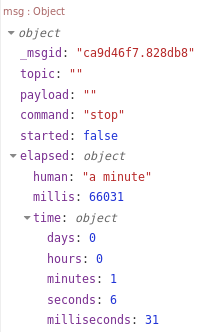
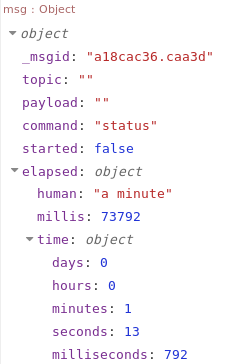
Intermediate commit

diff --git a/README.md b/README.md
@@ -47,19 +47,15 @@ Every input `msg` should have a **command** property, otherwise an error is issu
 - **resume** - resumes time measuring. Synonym of **start**  
 - **toggle** - switches over between running and stopped time measuring  
 - **reset** - resets measured value to 00:00. In the case of a running time measuring the value  continues to count from 00:00  
-- **status** - reports the actual status of the measured value. Output properties see section [Output](#output)  
+- **status** - reports the actual status of the measured value. Output properties see section [Output](#output). This command is typically used for split times or to read out the time values after a stopped measuring.  
 
-Remark: Alarm commands are described in the [alarm section](#input_alarm_handling). 
+Remark: Alarm commands are described in the [alarm section](#input_alarm_handling).  
 
 An example for an input `msg` object is as follows:
 
 <img src="assets/input-msg_start.png" title="Input message object" width="200" />
 
 **Fig. 3:** Input `msg` object (example *start* command)
-
-
-xxx hier noch irgendwie beschreiben, dass
-I've committed the change to send the status message for start/stop/reset commands if msg.status=true
 
 
 <a name="output_time_measuring"></a>
@@ -69,7 +65,8 @@ The `node-red-contrib-hourglass` node contains the following output properties w
 * `started` - gives the status of the time measuring, specifies whether measuring is actually active
 * `elapsed` - gives time values as an own sub-object (details see below)
 
-The output `msg` is sent in the case of every input msg with a valid command.
+In the basic mode the node only emits a `msg` at a *status* command. 
+An extended mode exists, where the output `msg` is send at every command (see [Extended status message mode](#extended_status)).  
 
 <img src="assets/output-msg_object.png" title="Output message object" width="200" />
 
@@ -81,11 +78,31 @@ The output property `elapsed` contains a sub-object with the following propertie
 * `elapsed.millis` - time in milliseconds, specifies the time elapsed since measuring was started.  
 * `elapsed.time` - has sub-properties of days/hours/minutes/seconds/milliseconds for elapsed time.  
 
-In the output example shown in the previous Fig. 4, these `msg` object properties contain a *stopped* state ("started: false"), a last command as a *stop* command and the *elapsed time* of about 66 seconds.
+In the output example shown in the previous Fig. 4, these `msg` object properties contain a *stopped* state ("started: false"), a last command as a *status* command and the *elapsed time* of about 74 seconds.
+
+
+<a name="extended_status"></a>
+#### Extended status message mode ####
+In some cases (e.g. measuring pulse widths) it is more convenient to get the elapsed time value directly with the *stop* command, without an extra *status* command. Therefore the *extended status message mode* exists.  
+Using this mode, the output `msg` is emitted in the case of every valid command, i.e. not only at the *status* command.
+
+This mode is selected by using the command property `msg.status` set to true in a command `msg`. If the command `msg` contains no status property, the basic mode is active (for compatibility, acts as before).
+
+<img src="assets/input-msg_stop_extended_mode.png" title="Input message object in extended status message mode" width="200" />
+
+**Fig. 5:** Input `msg` object in extended status message mode (example *stop* command)
+
+An inject node for manually tesing this mode could look like this:
+<img src="assets/input-inject_stop_extended_mode.png" title="Input inject object for extended status message mode" width="320" />
+
+**Fig. 6:** Input inject node configuration for extended status message mode  
 
 
 <a name="alarm_handling"></a>
 ### Alarm handling ###
+
+xxx not finished
+
 The alarm functionality covers the ability to set/remove several alarms. Generally there are no limitations of the number of active alarms within the node.
 
 <a name="input_alarm_handling"></a>
@@ -125,7 +142,7 @@ The nodes status shows
 * an alarm with a blue dot and a message *"Alarm ... message "*
 <img src="assets/node-status.png" title="Node status" width="300" />
 
-**Fig. 5:** `Hourglass` node status
+**Fig. 7:** `Hourglass` node status
 
 
 
@@ -148,29 +165,17 @@ The errors may be catched with the `catch` node.
 ## Examples ##
 
 <a name="basic_time_measuring_example"></a>
-### Basic time measuring example (start, stop, reset) ###
-This example shows how to use the basic commands *start*, *stop*, *reset*. Injecting the appropriate command to the `hourglass` node shows the status at the node, the last injected command and the elapsed time. 
-Remark: A value unequal to '0' in the elapsed time when injecting *reset* at a running node is only a matter of performance of the Node-RED machine.  
+### Basic time measuring example (start, stop, reset, status) ###
+This example shows how to use the basic commands *start*, *stop*, *reset* and *status*.  
 <img src="assets/example-basic.png" title="Basic example" width="650" />
 
-**Fig. 6:** `Hourglass` basic example 
+**Fig. 8:** `Hourglass` basic example 
 
 
 ```json
-[{"id":"38d3bc18.5fab9c","type":"hourglass","z":"25e44718.693758","name":"","humanizeLocale":"","x":770,"y":140,"wires":[["b76eef4.f8f021"]]},{"id":"7bcac329.9101dc","type":"change","z":"25e44718.693758","name":"{command:'reset'}","rules":[{"t":"set","p":"command","pt":"msg","to":"reset","tot":"str"}],"action":"","property":"","from":"","to":"","reg":false,"x":480,"y":240,"wires":[["ac103e97.ca2d08","38d3bc18.5fab9c"]]},{"id":"3d77841f.654b0c","type":"change","z":"25e44718.693758","name":"{command:'start'}","rules":[{"t":"set","p":"command","pt":"msg","to":"start","tot":"str"}],"action":"","property":"","from":"","to":"","reg":false,"x":480,"y":140,"wires":[["ac103e97.ca2d08","38d3bc18.5fab9c"]]},{"id":"fb5df939.afa9f8","type":"change","z":"25e44718.693758","name":"{command:'stop'}","rules":[{"t":"set","p":"command","pt":"msg","to":"stop","tot":"str"}],"action":"","property":"","from":"","to":"","reg":false,"x":480,"y":180,"wires":[["ac103e97.ca2d08","38d3bc18.5fab9c"]]},{"id":"b76eef4.f8f021","type":"debug","z":"25e44718.693758","name":"","active":false,"tosidebar":true,"console":false,"tostatus":true,"complete":"elapsed.millis","targetType":"msg","x":1000,"y":140,"wires":[]},{"id":"ac103e97.ca2d08","type":"debug","z":"25e44718.693758","name":"last command","active":false,"tosidebar":false,"console":false,"tostatus":true,"complete":"command","targetType":"msg","x":780,"y":200,"wires":[]},{"id":"17ca3917.a04e2f","type":"inject","z":"25e44718.693758","name":"","topic":"","payload":"","payloadType":"str","repeat":"","crontab":"","once":false,"onceDelay":0.1,"x":270,"y":180,"wires":[["fb5df939.afa9f8"]]},{"id":"20bc7f33.c543a8","type":"inject","z":"25e44718.693758","name":"","topic":"","payload":"","payloadType":"str","repeat":"","crontab":"","once":false,"onceDelay":0.1,"x":270,"y":240,"wires":[["7bcac329.9101dc"]]},{"id":"7b3afdf3.637da4","type":"inject","z":"25e44718.693758","name":"","topic":"","payload":"","payloadType":"str","repeat":"","crontab":"","once":false,"onceDelay":0.1,"x":270,"y":140,"wires":[["3d77841f.654b0c"]]}]
+[{"id":"92109e0a.88d96","type":"hourglass","z":"26a14c0c.360194","name":"","humanizeLocale":"","x":751,"y":80,"wires":[["f8480416.0850d"]]},{"id":"5a0a72af.5c5fc4","type":"change","z":"26a14c0c.360194","name":"{command:'reset'}","rules":[{"t":"set","p":"command","pt":"msg","to":"reset","tot":"str"}],"action":"","property":"","from":"","to":"","reg":false,"x":464,"y":180,"wires":[["5f57def2.775bb","92109e0a.88d96"]]},{"id":"cfff0e2d.ada0e8","type":"change","z":"26a14c0c.360194","name":"{command:'start'}","rules":[{"t":"set","p":"command","pt":"msg","to":"start","tot":"str"}],"action":"","property":"","from":"","to":"","reg":false,"x":462,"y":80,"wires":[["5f57def2.775bb","92109e0a.88d96"]]},{"id":"a0a2d80e.88f7d","type":"change","z":"26a14c0c.360194","name":"{command:'stop'}","rules":[{"t":"set","p":"command","pt":"msg","to":"stop","tot":"str"}],"action":"","property":"","from":"","to":"","reg":false,"x":462,"y":120,"wires":[["5f57def2.775bb","92109e0a.88d96"]]},{"id":"f8480416.0850d","type":"debug","z":"26a14c0c.360194","name":"","active":true,"tosidebar":true,"console":false,"tostatus":true,"complete":"elapsed.millis","targetType":"msg","x":981,"y":80,"wires":[]},{"id":"5f57def2.775bb","type":"debug","z":"26a14c0c.360194","name":"last command","active":false,"tosidebar":false,"console":false,"tostatus":true,"complete":"command","targetType":"msg","x":761,"y":140,"wires":[]},{"id":"5d200463.e6e644","type":"inject","z":"26a14c0c.360194","name":"","topic":"","payload":"","payloadType":"str","repeat":"","crontab":"","once":false,"onceDelay":0.1,"x":250,"y":120,"wires":[["a0a2d80e.88f7d"]]},{"id":"894f06df.59219","type":"inject","z":"26a14c0c.360194","name":"","topic":"","payload":"","payloadType":"str","repeat":"","crontab":"","once":false,"onceDelay":0.1,"x":250,"y":180,"wires":[["5a0a72af.5c5fc4"]]},{"id":"f8935576.4a4ae","type":"inject","z":"26a14c0c.360194","name":"","topic":"","payload":"","payloadType":"str","repeat":"","crontab":"","once":false,"onceDelay":0.1,"x":250,"y":80,"wires":[["cfff0e2d.ada0e8"]]},{"id":"6384eb1d.90bca4","type":"inject","z":"26a14c0c.360194","name":"","topic":"","payload":"","payloadType":"str","repeat":"","crontab":"","once":false,"onceDelay":0.1,"x":250,"y":220,"wires":[["5bb3a7b5.cb8b9"]]},{"id":"5bb3a7b5.cb8b9","type":"change","z":"26a14c0c.360194","name":"{command:'status'}","rules":[{"t":"set","p":"command","pt":"msg","to":"status","tot":"str"}],"action":"","property":"","from":"","to":"","reg":false,"x":462,"y":220,"wires":[["92109e0a.88d96","5f57def2.775bb"]]}]
 ```  
-**Fig. 7:** `Hourglass` node example flow
-
-<a name="pause_and_resume_example"></a>
-### Using pause and resume option ###
-
-xxx
-
-
-<a name="split_time_with_status_command_example"></a>
-### Getting split time values using the status command ###
-
-xxx
+**Fig. 9:** `Hourglass` node example flow
 
 <a name="alarm_handling_example"></a>
 ### Alarm handling example ###
